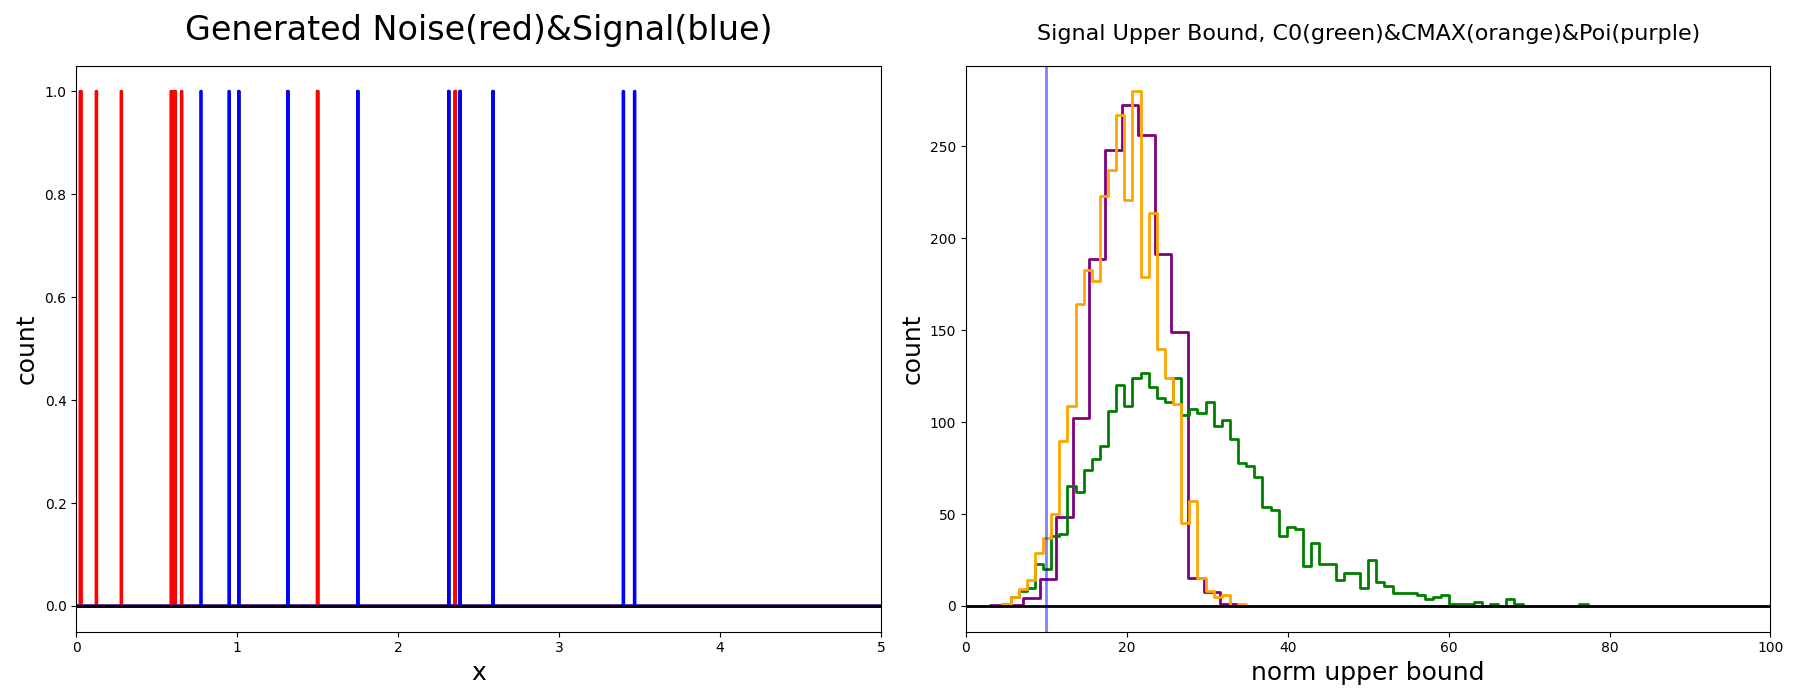
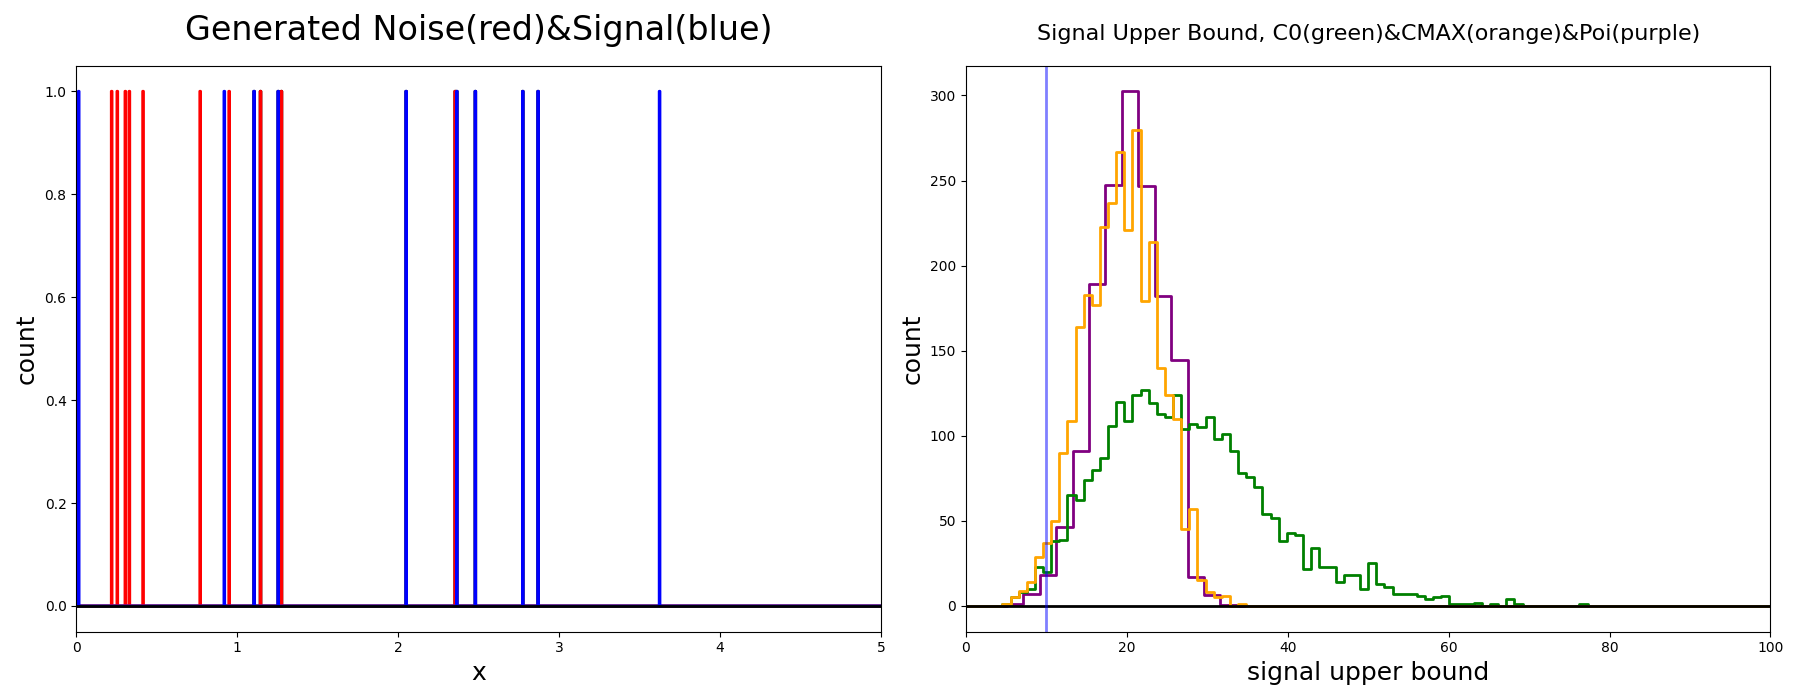
- final plot format touch for the moment

diff --git a/maxGapExp.py b/maxGapExp.py
@@ -119,7 +119,7 @@ def main():
     alpha = 0.9; 
 
     signalN = int(sys.argv[1]);
-    noiseN  = 0;                       #noise number
+    noiseN  = 10;                       #noise number
     np.random.seed(2);
 
     dataN   = noiseN + signalN;
@@ -341,7 +341,7 @@ def main():
              linewidth=2, color="orange", linestyle="steps-mid");
     ax1.set_title("Signal Upper Bound from C0(green)&CMAX(orange)", \
                   fontsize=20, y=1.03);
-    ax1.set_xlabel("norm upper bound", fontsize=18);
+    ax1.set_xlabel("signal upper bound", fontsize=18);
     ax1.set_ylabel("count", fontsize=18);
     ax1.set_xlim(rangeNorm[0], rangeNorm[1]);
     ax1.axhline(y=0, xmin=0, xmax=1, color="black", linewidth=2);

diff --git a/poissonExp.py b/poissonExp.py
@@ -201,7 +201,7 @@ def main():
              linewidth=2, linestyle="steps-mid");
     ax1.set_title("Signal Upper Bound, C0(green)&CMAX(orange)&Poi(purple)", \
                   fontsize=16, y=1.03);
-    ax1.set_xlabel("norm upper bound", fontsize=18);
+    ax1.set_xlabel("signal upper bound", fontsize=18);
     ax1.set_ylabel("count", fontsize=18);
     ax1.set_xlim(rangeNorm[0], rangeNorm[1]);
     ax1.axhline(y=0, xmin=0, xmax=1, color="black", linewidth=2);
